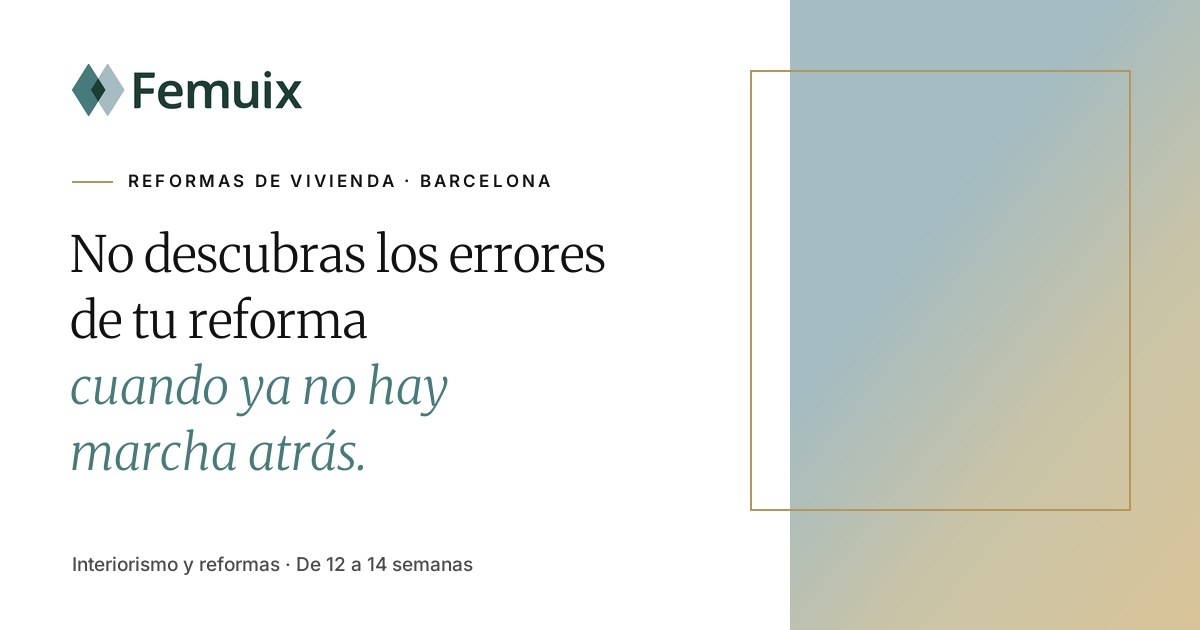
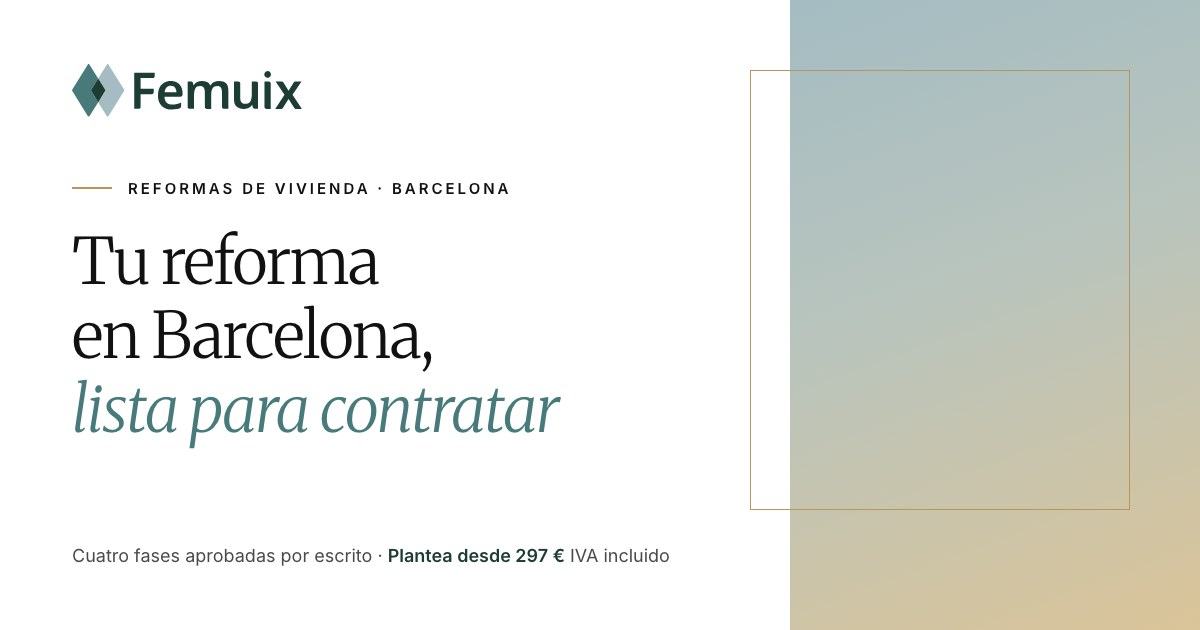
Mejoras de la revisión: imagen para compartir, texto de Google, intro más corta y sin reserva de llamada
- og-image y meta description con el titular y la oferta actuales.
- Intro del isotipo más corta (el titular sale ~0,7 s antes) y estilos dentro de cada página.
- Menú en el orden de la página, con «Para quién es».
- Email visible en el pie.
- Fuera «sin sorpresas» (fase Materializa) y el mecanismo de reserva de llamada (llamadaUrl).
- El Portal de Proyecto lleva la etiqueta «Maqueta con datos de ejemplo».

diff --git a/src/data/site.ts b/src/data/site.ts
@@ -15,33 +15,23 @@ export const site = {
   name: 'Femuix',
   title: 'Femuix · Reformas de vivienda en Barcelona',
   description:
-    'Acompaño tu reforma de principio a fin: decidimos qué se toca y qué no, lo ves antes de construirlo y llegas a la obra con todo definido. De 12 a 14 semanas, solo en Barcelona ciudad.',
+    'Interiorismo para reformar tu vivienda en Barcelona ciudad: cuatro fases aprobadas por escrito y un proyecto listo para contratar la obra. Plantea desde 297 €.',
   email: 'hola@femuix.com',
   city: 'Barcelona',
-  // Enlace externo a la agenda de la llamada de compatibilidad
-  llamadaUrl: '', // TODO: enlace a la agenda de la llamada de compatibilidad
   // Dirección a la que el formulario «Cuéntame tu reforma» envía los datos (p. ej. Formspree).
   // Vacía: al enviar se abre el correo con el mensaje ya redactado.
   contactoAction: '', // TODO: servicio de formularios
 };
 
-// Mientras no haya enlace a la agenda, la web no anuncia una llamada que no se puede reservar:
-// los botones invitan a escribir y abren el formulario «Cuéntame tu reforma» (sin JavaScript,
-// el email). Al rellenar `llamadaUrl` vuelven a ser llamadas.
-const activa = site.llamadaUrl !== '';
-export const llamada = {
-  activa,
-  href: activa ? site.llamadaUrl : `mailto:${site.email}`,
-  corta: activa ? 'Llamada de compatibilidad' : 'Escríbeme un email',
-  reservar: activa ? 'Reservar una llamada' : 'Escríbeme un email',
-  hablar: activa ? 'Hablemos en una llamada' : 'Cuéntame tu reforma',
-  enlace: activa ? 'Reserva una llamada de compatibilidad' : `Escríbeme a ${site.email}`,
-};
+// Desde la web no se reserva la llamada de compatibilidad (estrategia de captación): todo lo que
+// llega en frío pasa antes por el formulario «Cuéntame tu reforma», y Andrea propone la llamada
+// si la reforma encaja. Los botones abren el formulario; sin JavaScript, el email.
 
 export const nav = [
+  { label: 'Para quién es', href: '#para-quien' },
+  { label: 'Sobre mí', href: '#sobre-mi' },
   { label: 'El método', href: '#metodo' },
   { label: 'Cómo trabajo', href: '#como-trabajo' },
-  { label: 'Sobre mí', href: '#sobre-mi' },
   { label: 'Preguntas', href: '#preguntas' },
 ];
 
@@ -93,7 +83,7 @@ export const fases = [
     n: '04',
     nombre: 'Materializa',
     semanas: 'Semanas 9 a 12',
-    texto: 'Todo documentado para pedir presupuestos comparables y empezar sin sorpresas.',
+    texto: 'Todo documentado para pedir presupuestos comparables y llegar a la obra con todo decidido.',
     entregable:
       'Planos de fontanería, electricidad, evacuación y climatización, mediciones para pedir presupuestos comparables y la comparativa de ofertas de los industriales.',
     // La última fase no da paso a otra: en vez de lo que se aprueba, dice cómo queda todo al cerrar

diff --git a/src/scripts/motion.ts b/src/scripts/motion.ts
@@ -85,7 +85,7 @@ function stepOf(el: HTMLElement) {
 }
 
 const baseOf = (el: HTMLElement) =>
-  root.classList.contains('intro') && el.closest('.hero') ? 1600 : 0;
+  root.classList.contains('intro') && el.closest('.hero') ? 900 : 0;
 
 const scopeOf = (el: Element) => el.closest('section, footer') ?? document.body;
 const unitOf = (el: Element) => el.closest('[data-reveal-unit]');

diff --git a/src/styles/global.css b/src/styles/global.css
@@ -940,7 +940,7 @@ main .eyebrow::before {
 }
 
 .intro .hero {
-  --base: 1600ms;
+  --base: 900ms;
 }
 
 @media (prefers-reduced-motion: reduce) {

diff --git a/README.md b/README.md
@@ -237,9 +237,8 @@ en modo White y Dark UI: **0 incidencias**. Además, comprobaciones manuales:
 3. **Objetivos pequeños:** enlaces del menú (24 px) y del pie (22 px) ahora de 40 a 50 px;
    casilla de privacidad de 20 a 24 px.
 4. **Vídeo sin alternativa en texto** (1.2.1): descripción desplegable bajo el vídeo.
-5. **Botones de «llamada» que llevaban al formulario:** mientras `llamadaUrl` no tenga una
-   agenda real, pasan a «Escríbeme un email» (`llamada` en `src/data/site.ts`). Al rellenar la
-   URL vuelven a ser llamadas, sin tocar nada más.
+5. **Sin reserva de llamada desde la web:** según la estrategia de captación, todo lo que llega en
+   frío pasa por el formulario «Cuéntame tu reforma»; la llamada la propone Andrea si encaja.
 6. **Errores en burdeos** poco legibles sobre la bruma: oscurecidos (4,7:1).
 7. Soporte de **`prefers-contrast: more`** y **`forced-colors`**.
 
@@ -300,8 +299,6 @@ en portada, antes/después y vídeo. Están en `src/data/media.ts`:
 - Revisar los finales completados de «Recibes» y «Al cerrar» de la fase 04 (propuesta, `fases` en `site.ts`).
 - Testimonios reales (`testimonios`; mientras esté vacío se muestran huecos).
 - Capturas reales del portal de cliente (hoy es una ilustración en `ComoTrabajo.astro`).
-- Enlace a la agenda de la llamada (`llamadaUrl`): al rellenarlo, los botones de «Escríbeme tu
-  caso» pasan a reservar la llamada.
 - Servicio que recibe el formulario «Cuéntame tu reforma» (`contactoAction`, p. ej. Formspree).
   Mientras esté vacío, al enviar se abre el correo con el mensaje ya redactado.
 - Datos entre [corchetes] de `/aviso-legal`, `/privacidad` y `/cookies`, y revisión profesional
